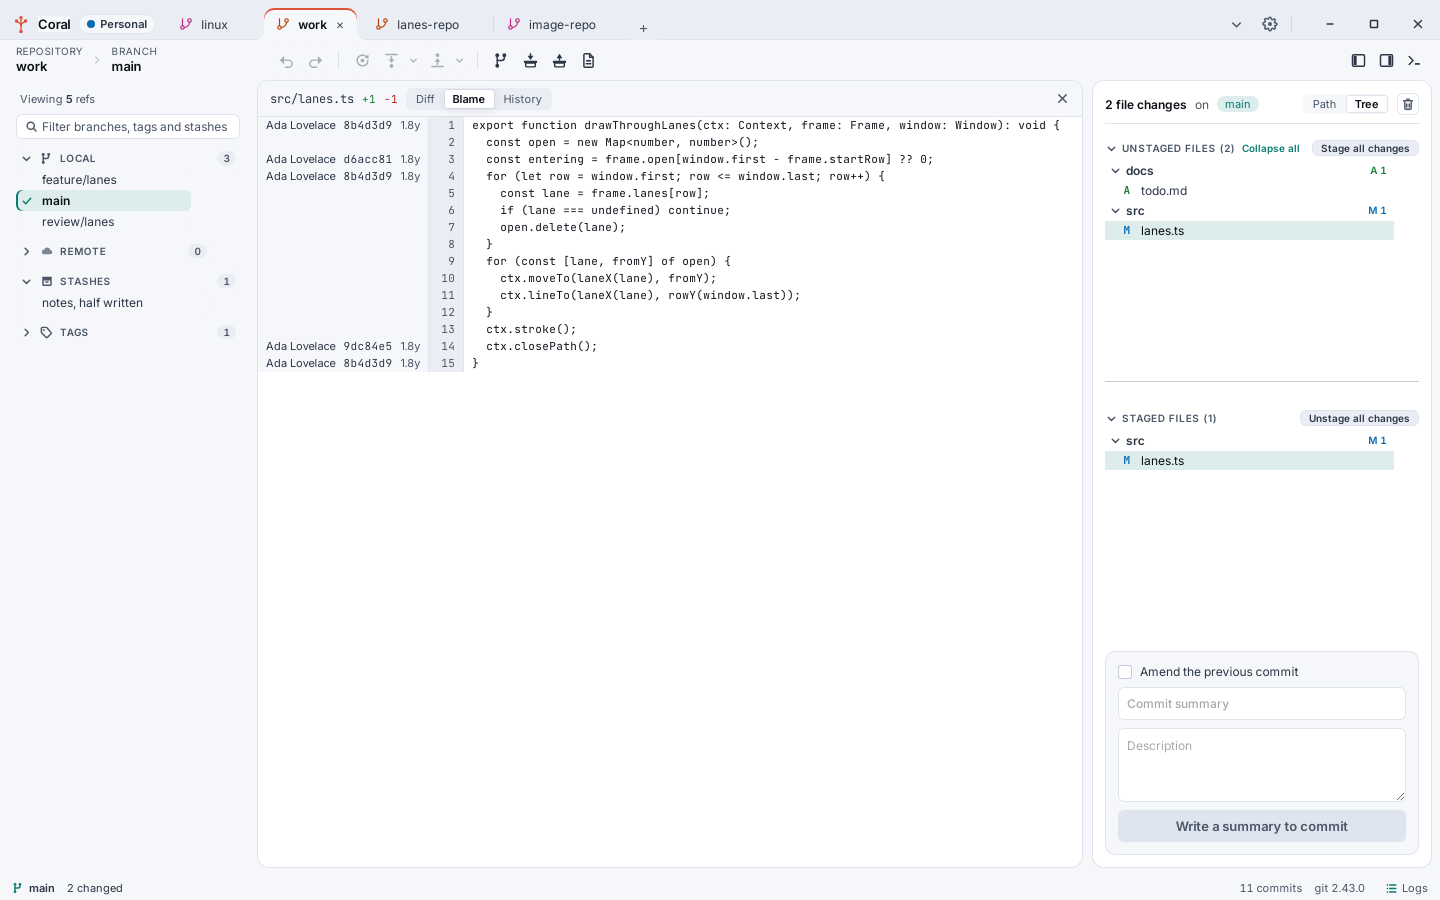
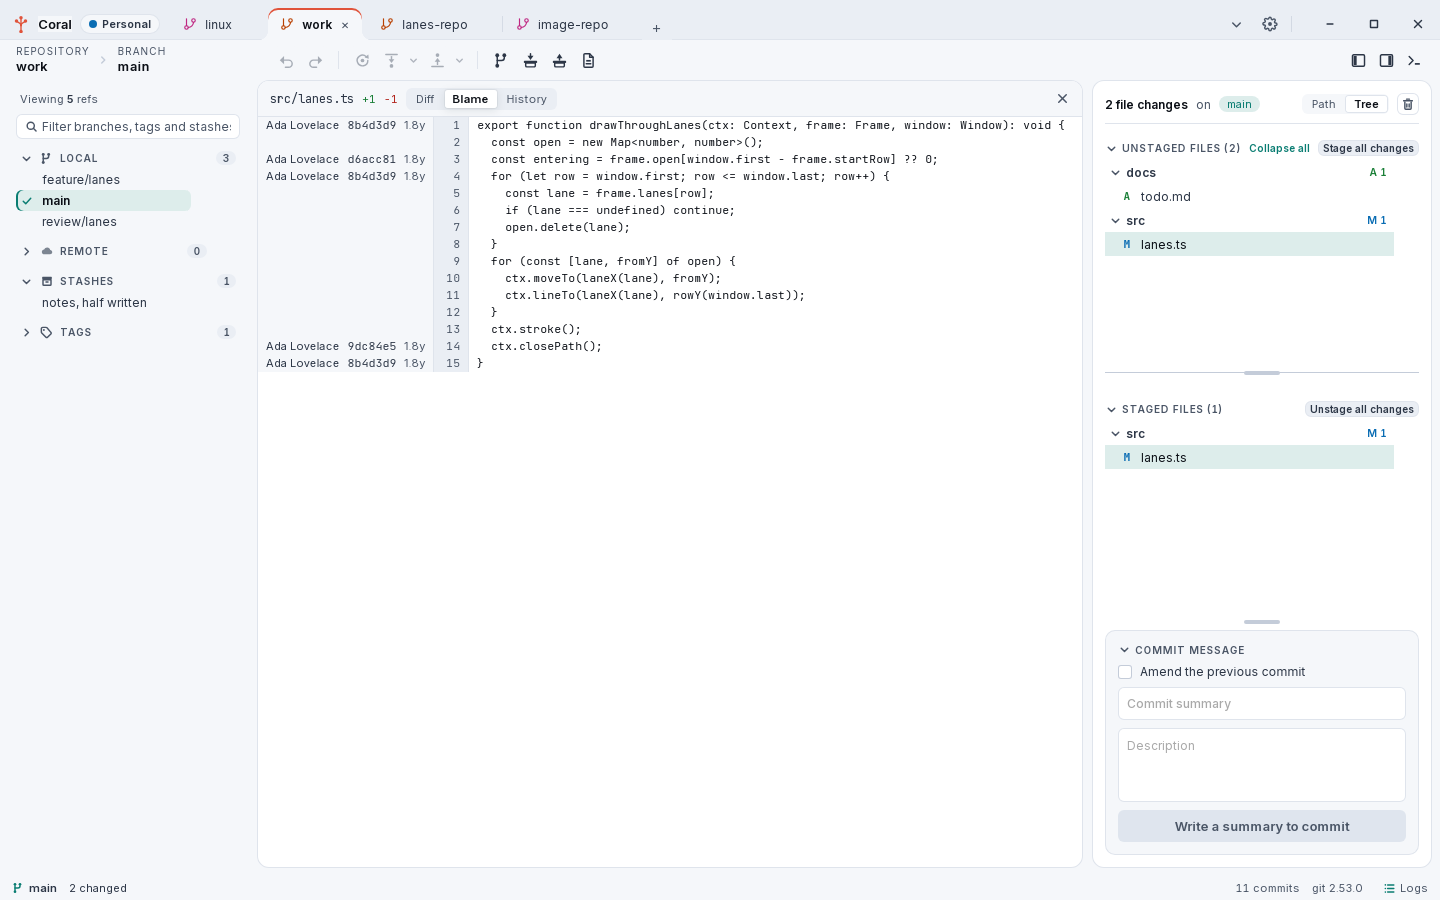
docs: screenshots with the panel's folding sections, and a line on them
Twelve of the fifteen are retaken from the built binary under WebKitGTK at 1440 by 900: every
one that shows the right panel. The graph, palette, dark theme and terminal are the kernel,
on a copy of the benchmark clone; the rest are the fixture repositories. The conflict,
recovery and checkout pictures show no panel and are kept.

Claude-Session: https://claude.ai/code/session_019zKzfW13K5bbV3zVu1BVwx

diff --git a/site/index.html b/site/index.html
@@ -124,6 +124,7 @@
           <p>Read the diff inline or side by side, with the changed words marked, then stage a file, a hunk or a single line.</p>
           <ul>
             <li>Commit, amend and discard</li>
+            <li>Lists and message box that fold and resize, and stay as you left them</li>
             <li>Commit signing, per repository</li>
             <li>Blame and file history for any line</li>
           </ul>

diff --git a/README.md b/README.md
@@ -32,7 +32,7 @@ worth of DOM. The panel on the right is the commit under the cursor.*
 | [![Side by side diff](docs/screenshots/02-diff.png)](docs/screenshots/02-diff.png) | [![Blame](docs/screenshots/03-blame.png)](docs/screenshots/03-blame.png) |
 | **Diffs** read inline or side by side, with the changed words marked inside a changed line, and step change by change in either layout. | **Blame** attributes every line to the commit that last changed it, with the age beside it. |
 | [![Staging and committing](docs/screenshots/04-staging.png)](docs/screenshots/04-staging.png) | [![The conflict tool](docs/screenshots/05-conflicts.png)](docs/screenshots/05-conflicts.png) |
-| **Staging** by file, by hunk or by line, as a tree or a flat list. | **Conflicts** in three panes built from the index stages, with the sides named after the refs involved rather than "ours" and "theirs". |
+| **Staging** by file, by hunk or by line, as a tree or a flat list, in lists that fold and resize. | **Conflicts** in three panes built from the index stages, with the sides named after the refs involved rather than "ours" and "theirs". |
 | [![Interactive rebase](docs/screenshots/06-rebase.png)](docs/screenshots/06-rebase.png) | [![The command palette](docs/screenshots/07-palette.png)](docs/screenshots/07-palette.png) |
 | **Interactive rebase** with a picker for reword, squash, fixup, edit, drop and reorder, before anything runs. | **The command palette** on `Ctrl+P`, with every action and every tag in the repository. |
 | [![The dark theme](docs/screenshots/08-dark.png)](docs/screenshots/08-dark.png) | [![The embedded terminal](docs/screenshots/09-terminal.png)](docs/screenshots/09-terminal.png) |
